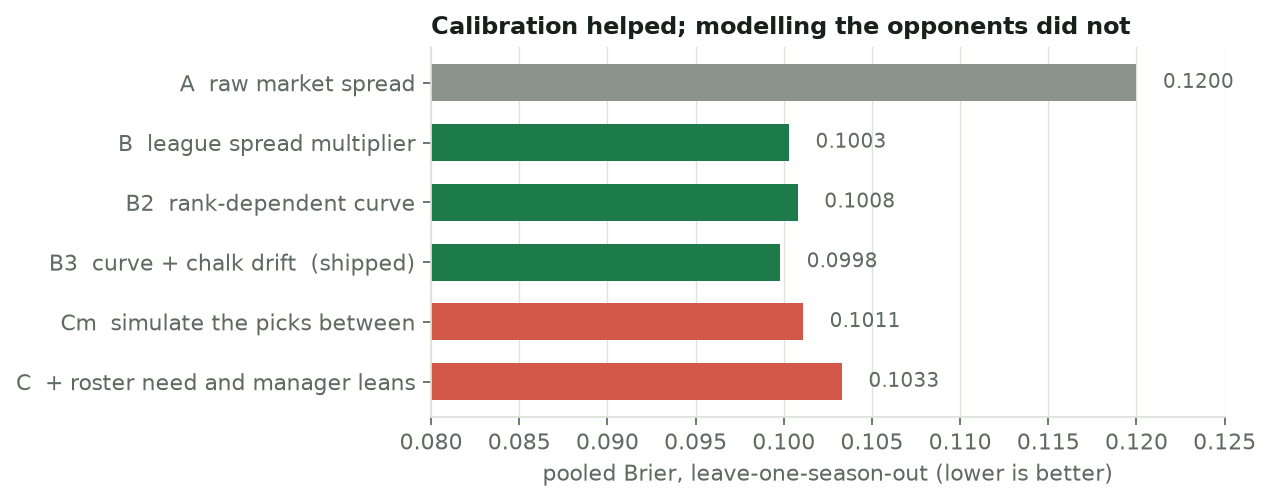
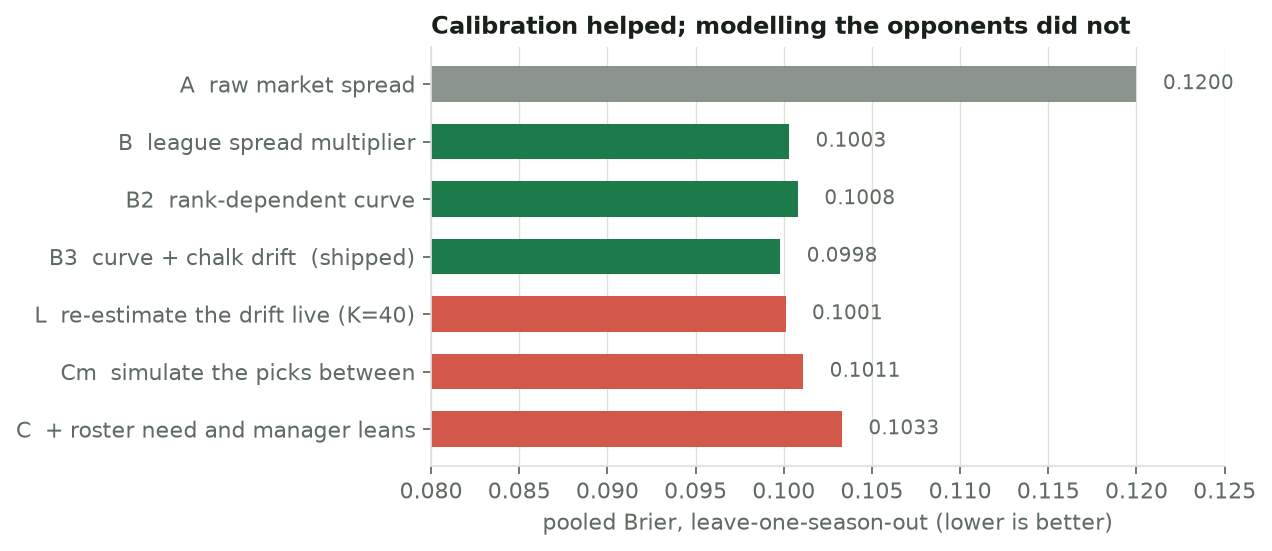
Test updating the chalk drift live: it loses to the static drift, so not shipped
Adds model L to replay_brier.py (drift re-estimated from the draft in progress,
shrunk toward the league fit with K picks). Worse than B3 in every season at
every K, and monotonically better as K grows. Recorded as the fifth negative
result in RESULTS.md and in the ladder figure.

diff --git a/scripts/replay_brier.py b/scripts/replay_brier.py
@@ -23,6 +23,14 @@ The simulation never beat the plain conditional normal at next-turn
 horizons, and personalisation (leans + need) made it slightly WORSE -- three
 seasons is not enough to out-predict the market prior, so manager
 tendencies are displayed in draft_advise, not folded into probabilities.
+LIVE DRIFT (Nov 1, 2026): model L re-estimates the chalk drift from the draft in
+progress, shrunk toward the league's fitted drift with K picks of prior. It
+LOSES to the static B3 in every season at every K tried (pooled 0.1001-0.1007
+vs 0.0998) and improves monotonically as K grows, i.e. as it is allowed to
+move less. Not shipped. Likely reason: the room's drift barely varies between
+drafts (+0.29 / +0.28 / +0.28 by season in league_tendencies.py), so a few
+dozen noisy picks add more variance than information.
+
 Re-run this after the 2026 draft lands (~165 more picks) before promoting
 anything new into the availability math.
 
@@ -46,6 +54,9 @@ from league_tendencies import (SEASONS, SKILL, K_PRIOR, build_picks,
 CONSIDER = 50          # score players within this many ranks of the current pick
 STARTERS = {"QB": 1, "RB": 2, "WR": 2, "TE": 1}
 POS_ALL = ["QB", "RB", "WR", "TE", "PK", "DEF"]
+# model L: B3, but the chalk drift is re-estimated from THIS draft's picks so
+# far, shrunk toward the league's fitted drift with K picks of prior strength
+LIVE_K = (5, 10, 20, 40)
 
 
 # ---------- model A/B: the panel's availAt(), in rank space ----------------
@@ -196,6 +207,14 @@ def replay(year: int, df) -> dict:
         team_turns.setdefault(p["team"], []).append(p["o"])
 
     briers = {"A": [], "B": [], "B2": [], "B3": [], "Cm": [], "C": []}
+    briers.update({f"L{k}": [] for k in LIVE_K})
+    # this draft's own deviation from the market, pick by pick (ranks inside the
+    # drift window only -- beyond it the estimate is selection-biased)
+    z_seen = []                        # (overall, z), in pick order
+    for q in sorted(s["picks"], key=lambda x: x["o"]):
+        kq = norm_name(s["players"][str(q["pid"])]["n"])
+        if kq in uni and uni[kq][0] <= curve["drift_full"]:
+            z_seen.append((q["o"], (q["o"] - uni[kq][0]) / uni[kq][1]))
     events = 0
     for p in s["picks"]:
         if p["auto"]:
@@ -229,6 +248,16 @@ def replay(year: int, df) -> dict:
             pb2 = avail_at(mu, sig * float(curve_mult(curve, mu)), k2, k)
             mu3 = mu + float(curve_shift(curve, mu, sig))
             pb3 = avail_at(mu3, sig * float(curve_mult(curve, mu)), k2, k)
+            # live drift: only picks already made (o < k) are visible
+            zs = [z for o, z in z_seen if o < k]
+            for kk in LIVE_K:
+                d_live = (kk * curve["drift"] + sum(zs)) / (kk + len(zs))
+                taper = float(np.clip(np.interp(
+                    mu, [curve["drift_full"], curve["drift_zero"]], [1.0, 0.0]),
+                    0.0, 1.0))
+                pl = avail_at(mu + d_live * taper * sig,
+                              sig * float(curve_mult(curve, mu)), k2, k)
+                briers[f"L{kk}"].append((pl - y) ** 2)
             briers["A"].append((pa - y) ** 2)
             briers["B"].append((pb - y) ** 2)
             briers["B2"].append((pb2 - y) ** 2)
@@ -263,6 +292,7 @@ def main() -> None:
     print(f"{'year':<6}{'events':>7}  {'mult':>5}  "
           f"{'A base':>8}{'B mult':>8}{'B2 crv':>8}{'B3 c+s':>8}{'Cm mkt':>8}{'C sim':>8}   conservation@41")
     allb = {"A": [], "B": [], "B2": [], "B3": [], "Cm": [], "C": []}
+    allb.update({f"L{k}": [] for k in LIVE_K})
     for year in SEASONS:
         r = replay(year, df)
         c = r["conservation"]
@@ -278,6 +308,15 @@ def main() -> None:
           f"B2 {pooled['B2']:.4f}   B3 {pooled['B3']:.4f}   Cm {pooled['Cm']:.4f}   C {pooled['C']:.4f}")
     print("lower is better; B<A means the sigma multiplier is real signal, "
           "C<B means the simulation earns its complexity")
+    print("\nlive drift (B3 with the drift re-estimated from this draft's own picks;"
+          " K = prior strength in picks)")
+    print(f"{'year':<6}" + "".join(f"{'L'+str(k):>9}" for k in LIVE_K)
+          + f"{'B3':>9}")
+    for i, year in enumerate(SEASONS):
+        print(f"{year:<6}" + "".join(f"{allb['L'+str(k)][i][0]:>9}" for k in LIVE_K)
+              + f"{allb['B3'][i][0]:>9}")
+    print(f"{'pooled':<6}" + "".join(f"{pooled['L'+str(k)]:>9.4f}" for k in LIVE_K)
+          + f"{pooled['B3']:>9.4f}")
 
 
 if __name__ == "__main__":

diff --git a/scripts/results_figures.py b/scripts/results_figures.py
@@ -60,9 +60,10 @@ steps = [("A  raw market spread", .1200, SLATE),
          ("B  league spread multiplier", .1003, GREEN),
          ("B2  rank-dependent curve", .1008, GREEN),
          ("B3  curve + chalk drift  (shipped)", .0998, GREEN),
+         ("L  re-estimate the drift live (K=40)", .1001, RED),
          ("Cm  simulate the picks between", .1011, RED),
          ("C  + roster need and manager leans", .1033, RED)]
-fig, ax = plt.subplots(figsize=(6.4, 3.0))
+fig, ax = plt.subplots(figsize=(6.4, 3.4))
 ys = list(range(len(steps)))[::-1]
 for y, (lab, v, c) in zip(ys, steps):
     ax.barh(y, v, color=c, height=.62)

diff --git a/RESULTS.md b/RESULTS.md
@@ -3,6 +3,7 @@
 Snakebite answers one question: *will this player still be there at my next
 pick?* Most of the work was deciding what **not** to put in the answer. This page
 is the evidence — including the things that failed, which is most of it.
+Four were rejected on the original data and a fifth, live drift, was tested last.
 
 **Ground truth.** The only labelled data for this question is what actually
 happened in a real league's drafts: **391 picks over 2023–25** (361 human, 30
@@ -145,6 +146,31 @@ the one range it was measured on.
 
 ---
 
+## A fifth, tested last: updating the drift live
+
+Every room runs a little early or late against ADP, and the model treats that as
+one fixed number (+0.285 σ, from three seasons). The natural upgrade is to
+re-estimate it *during* the draft from the picks already made, shrunk toward the
+league value. It is the one idea in this project that is cheap, plausible and
+testable on exactly the data above, so it was tested the same way.
+
+| year | live, K=5 | K=10 | K=20 | K=40 | static (shipped) |
+|---|---|---|---|---|---|
+| 2023 | 0.0807 | 0.0805 | 0.0803 | 0.0801 | **0.0799** |
+| 2024 | 0.1155 | 0.1154 | 0.1151 | 0.1148 | **0.1144** |
+| 2025 | 0.1030 | 0.1028 | 0.1027 | 0.1024 | **0.1021** |
+| pooled | 0.1007 | 0.1005 | 0.1003 | 0.1001 | **0.0998** |
+
+It loses in every season at every prior strength, and it gets monotonically
+*better* as it is allowed to move *less*. The likely reason is in the data
+rather than the method: the drift is stable across seasons (+0.29, +0.28, +0.28
+at 8, 10 and 10 teams), so there is almost no room-to-room variation to learn,
+and a few dozen noisy picks add more variance than information. Not shipped.
+
+*Reproduce:* `python scripts/replay_brier.py` (the live-drift table prints last).
+
+---
+
 ## A calibration bug I found in my own output
 
 The board labels one projection a "floor" (the 20th percentile) and another a
@@ -185,7 +211,7 @@ were considered and rejected: four parameters on ~350 rows each.
 
 | claim | command |
 |---|---|
-| Brier ladder (A → B3, C) | `python scripts/replay_brier.py` |
+| Brier ladder (A → B3, C) and live drift | `python scripts/replay_brier.py` |
 | ESPN vs consensus | `python scripts/replay_market.py` |
 | Opponent weight / runs | `python scripts/need_redesign.py`, `scripts/scan_opponent_weight.py` |
 | Board vs ADP backtest | `python scripts/board_backtest.py` |
